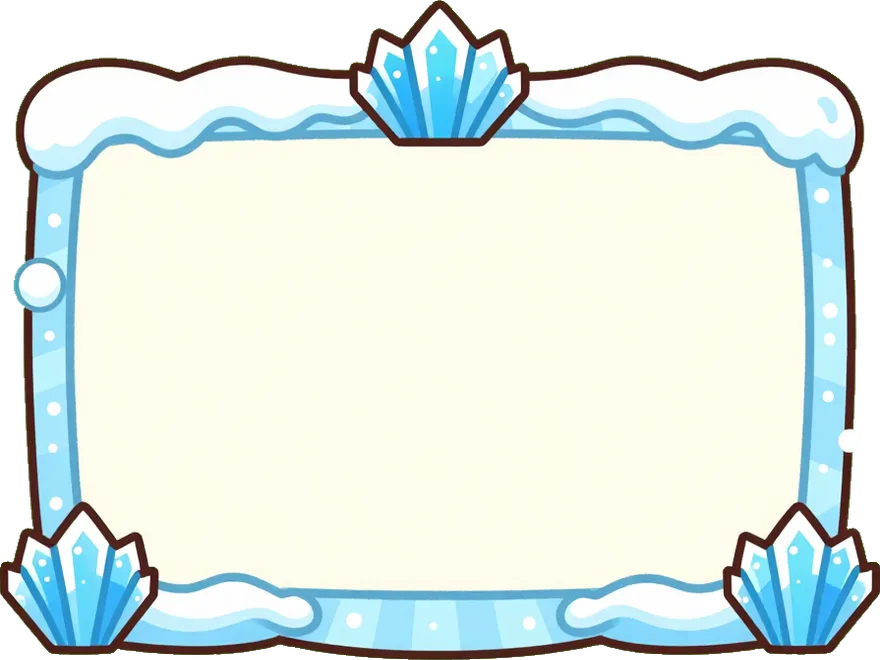
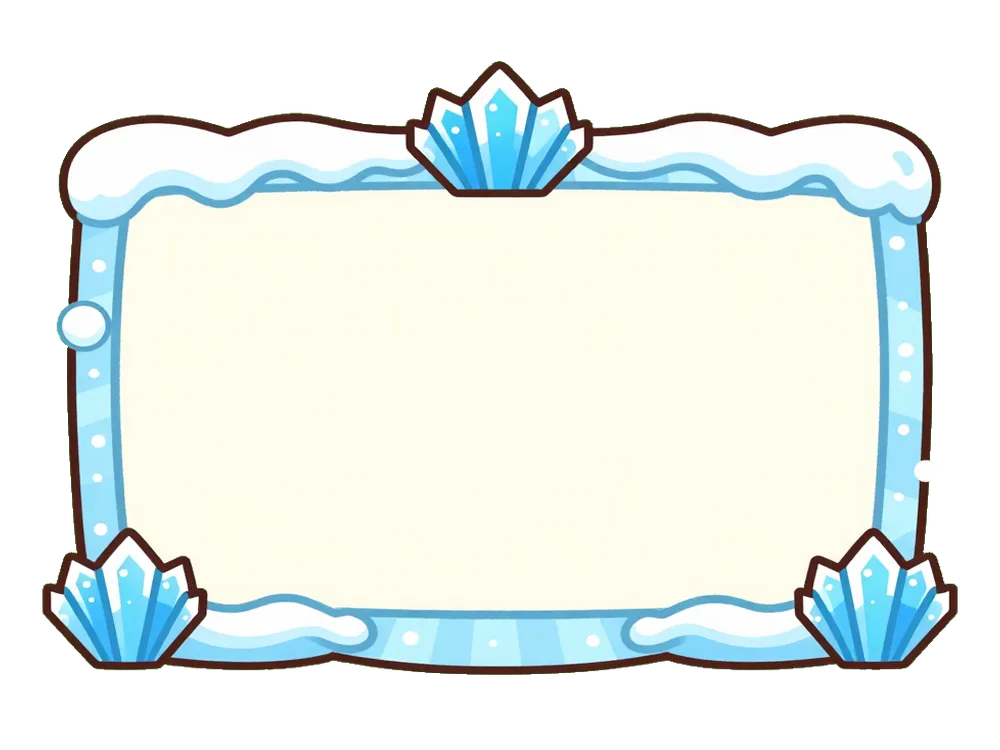
fix(gashapon-art): align prize frames by their cream panel so every rarity has the same body
Claude-Session: https://claude.ai/code/session_01SemYkQLkTmSDDeYUKQcPZG

diff --git a/shared/css/prize-frame.css b/shared/css/prize-frame.css
@@ -1,15 +1,16 @@
 /* 揭曉卡片的外框(2026-10-01 第三版):5 張 ComfyUI 生成的彩色冰雪框,一階比一階華麗。
    卡片固定 4:3、整張圖鋪滿,不用九宮格;名字太長就自動縮字(gashapon/js/fit-text.js)。
    框的顏色不分稀有度(稀有度色在扭蛋殼、標籤、光暈上),只靠裝飾區分等級。
-   圖由 tools/mascot-gen/gashapon.py build-frames 產生;內距是 5 張圖裡最小的面板
-   (build-frames 印出的 max inset:上 23.6%、右 10.8%、下 20.5%、左 10.6%,以高度/寬度計)再留一點邊。
+   圖由 tools/mascot-gen/gashapon.py build-frames 產生:5 張都以中間的奶油色面板對齊,面板固定在
+   1000x750 畫布的 (120,190)–(880,610),外圍裝飾往外凸 —— 換等級時框身跟文字區完全一樣。
    扭蛋機在用;立體扭蛋機之後加上 .prize-frame、data-rarity 就能用(issue #6)。 */
 .prize-frame {
   width: min(88vw, 460px);
   aspect-ratio: 4 / 3;
   max-height: 80dvh;
-  /* padding 的百分比是相對寬度:上 23.6% 高 ≈ 17.7% 寬,下 20.5% 高 ≈ 15.4% 寬 */
-  padding: 19% 13% 16.5%;
+  /* 面板:左右各 12% 寬、上 190/750 高、下 140/750 高;padding 的百分比是相對寬度,
+     所以上 = 190/750×0.75 = 19%、下 = 14%,再各往內留 2% */
+  padding: 21% 14% 16%;
   display: grid;
   grid-template-rows: auto minmax(0, 1fr);
   position: relative;
@@ -23,11 +24,11 @@
   filter: drop-shadow(0 10px 0 rgba(87, 66, 57, .2));
 }
 .prize-frame::before { content: none; }
-.prize-frame[data-rarity="N"]   { background-image: url(../img/frames/frame-N.webp?v=848b51b8); }
-.prize-frame[data-rarity="R"]   { background-image: url(../img/frames/frame-R.webp?v=178d9f9d); }
-.prize-frame[data-rarity="SR"]  { background-image: url(../img/frames/frame-SR.webp?v=80d81f0a); }
-.prize-frame[data-rarity="SSR"] { background-image: url(../img/frames/frame-SSR.webp?v=d5fc34f0); }
-.prize-frame[data-rarity="UR"]  { background-image: url(../img/frames/frame-UR.webp?v=5322a120); }
+.prize-frame[data-rarity="N"]   { background-image: url(../img/frames/frame-N.webp?v=4ce88016); }
+.prize-frame[data-rarity="R"]   { background-image: url(../img/frames/frame-R.webp?v=6bd384be); }
+.prize-frame[data-rarity="SR"]  { background-image: url(../img/frames/frame-SR.webp?v=a28d6069); }
+.prize-frame[data-rarity="SSR"] { background-image: url(../img/frames/frame-SSR.webp?v=610568b4); }
+.prize-frame[data-rarity="UR"]  { background-image: url(../img/frames/frame-UR.webp?v=27431251); }
 
 /* 名字那一格:撐滿中間剩下的空間,fitText 量的就是這一格 */
 .prize-frame .prize-card__name-box {

diff --git a/tools/mascot-gen/gashapon.py b/tools/mascot-gen/gashapon.py
@@ -19,7 +19,7 @@ from PIL import Image
 
 import comfy
 from post import key_border, keep_largest, key_green
-from gashapon_art import anchors_from_pick, cut_disk, content_hash, stamp, clear_green_fringe, to_tint_gray, split_at, split_cells, square_about_seam, crop_margin
+from gashapon_art import anchors_from_pick, cut_disk, content_hash, stamp, clear_green_fringe, to_tint_gray, split_at, split_cells, square_about_seam, crop_margin, panel_bbox, fit_panel
 
 ROOT = Path(__file__).resolve().parents[2]
 HERE = Path(__file__).resolve().parent
@@ -307,10 +307,14 @@ def cmd_frames_i2i(args):
             print(f'i2i {r} s{n} denoise={denoise[r]}', flush=True)
 
 
+# 外框輸出:1000x750(4:3)畫布,面板固定落在這個位置;外圍的冰晶冠、冰晶簇往外凸
+FRAME_CANVAS = (1000, 750)
+FRAME_PANEL = (120, 190, 880, 610)   # x0, y0, x1, y1
+
+
 def cmd_build_frames(args):
-    """彩色整張外框:去背、裁到內容、統一縮成 4:3。另外量中間奶油色面板的位置,
-    印出 5 張裡最保守(面板最小)的內距百分比,給 prize-frame.css 的 padding 用。
-    挑選紀錄可以指定 dir(為了讓遞進清楚,有的等級是用別的等級的候選圖)。"""
+    """彩色整張外框:去背後以中間的奶油色面板對齊(fit_panel),5 個等級的框身與文字區一模一樣,
+    只有外圍裝飾不同。挑選紀錄可以指定 dir(為了讓遞進清楚,有的等級是用別的等級的候選圖)。"""
     picks = load_cfg().get('picks', {})
     missing = [r for r in RARITIES if f'frame-{r}' not in picks]
     if missing:
@@ -318,27 +322,17 @@ def cmd_build_frames(args):
     dest = ROOT / 'shared' / 'img' / 'frames'
     dest.mkdir(parents=True, exist_ok=True)
     css = ROOT / 'shared' / 'css' / 'prize-frame.css'
-    insets = []
     for r in RARITIES:
         p = picks[f'frame-{r}']
-        full, _ = cutout(OUT / p.get('dir', f'frame-{r}') / f's{p["n"]}.png')
-        im = Image.fromarray(full).resize((880, 660), Image.LANCZOS)
-        a = np.asarray(im).astype(int)
-        h, w = a.shape[:2]
-        # 面板:從中心往四個方向走,碰到跟中心顏色差很多的地方就是面板邊
-        c = a[h // 2, w // 2, :3]
-        far = lambda y, x: np.abs(a[y, x, :3] - c).sum() > 60
-        top = next(y for y in range(h // 2, 0, -1) if far(y, w // 2))
-        bottom = next(y for y in range(h // 2, h) if far(y, w // 2))
-        left = next(x for x in range(w // 2, 0, -1) if far(h // 2, x))
-        right = next(x for x in range(w // 2, w) if far(h // 2, x))
-        insets.append((top / h, (w - right) / w, (h - bottom) / h, left / w))
+        rgb = np.asarray(Image.open(OUT / p.get('dir', f'frame-{r}') / f's{p["n"]}.png').convert('RGB'))
+        rgba = keep_largest(clear_green_fringe(key_border(rgb)))
+        box = panel_bbox(rgba)
+        im = Image.fromarray(fit_panel(rgba, box, FRAME_CANVAS, FRAME_PANEL))
         path = dest / f'frame-{r}.webp'
         webp(im, path)
         if css.exists():
             restamp(css, f'../img/frames/frame-{r}.webp', path)
-        print(r, 'panel inset top/right/bottom/left = ' + ' '.join(f'{v:.3f}' for v in insets[-1]))
-    print('max inset', ' '.join(f'{max(i[k] for i in insets):.3f}' for k in range(4)))
+        print(r, 'panel', box)
 
 
 def review_frames():

diff --git a/tools/mascot-gen/gashapon_art.py b/tools/mascot-gen/gashapon_art.py
@@ -96,3 +96,37 @@ def crop_margin(img, frac):
     h, w = img.shape[:2]
     my, mx = round(h * frac), round(w * frac)
     return img[my:h - my, mx:w - mx]
+
+
+def panel_bbox(rgba, tol=40.0):
+    """外框中間那塊奶油色面板的範圍 (x0, y0, x1, y1):從正中央往外填色,跟中心顏色相差 tol 以內的
+    連通區域取外接矩形。裝飾凸進面板一點(UR 下緣的寶石)不影響,因為面板其他地方還是連得到邊。"""
+    f = rgba[..., :3].astype(np.float32)
+    h, w = f.shape[:2]
+    near = np.sqrt(((f - f[h // 2, w // 2]) ** 2).sum(-1)) <= tol
+    region = np.zeros((h, w), bool)
+    region[h // 2, w // 2] = True
+    while True:
+        grown = region.copy()
+        grown[1:] |= region[:-1]; grown[:-1] |= region[1:]; grown[:, 1:] |= region[:, :-1]; grown[:, :-1] |= region[:, 1:]
+        grown &= near
+        if (grown == region).all():
+            break
+        region = grown
+    ys, xs = np.nonzero(region)
+    return int(xs.min()), int(ys.min()), int(xs.max()) + 1, int(ys.max()) + 1
+
+
+def fit_panel(rgba, box, canvas, target):
+    """把外框縮放、平移到面板剛好落在 target 的位置,放在 canvas (w, h) 大小的透明畫布上。
+    5 個等級的框外圍裝飾大小不同(UR 有冰晶冠),以面板對齊,框身與文字區才會一模一樣。"""
+    from PIL import Image
+    bx0, by0, bx1, by1 = box
+    tx0, ty0, tx1, ty1 = target
+    sx = (tx1 - tx0) / (bx1 - bx0)
+    sy = (ty1 - ty0) / (by1 - by0)
+    h, w = rgba.shape[:2]
+    scaled = Image.fromarray(rgba).resize((max(1, round(w * sx)), max(1, round(h * sy))), Image.LANCZOS)
+    out = Image.new('RGBA', canvas, (0, 0, 0, 0))
+    out.paste(scaled, (round(tx0 - bx0 * sx), round(ty0 - by0 * sy)))
+    return np.asarray(out)

diff --git a/tools/mascot-gen/test_gashapon_art.py b/tools/mascot-gen/test_gashapon_art.py
@@ -130,3 +130,33 @@ from gashapon_art import crop_margin
 class CropMargin(unittest.TestCase):
     def test_crops_each_side(self):
         self.assertEqual(crop_margin(np.zeros((100, 50, 3), np.uint8), 0.1).shape[:2], (80, 40))
+
+
+from gashapon_art import panel_bbox, fit_panel
+
+
+class Panel(unittest.TestCase):
+    def frame(self, w, h, box):
+        a = np.zeros((h, w, 4), np.uint8)
+        a[...] = (150, 200, 240, 255)                      # 冰藍框
+        x0, y0, x1, y1 = box
+        a[y0:y1, x0:x1] = (255, 250, 235, 255)             # 奶油色面板
+        return a
+
+    def test_panel_bbox_finds_cream_panel(self):
+        self.assertEqual(panel_bbox(self.frame(100, 80, (20, 30, 80, 70))), (20, 30, 80, 70))
+
+    def test_panel_bbox_ignores_ornament_poking_in(self):
+        a = self.frame(100, 80, (20, 30, 80, 70))
+        a[68:70, 45:55] = (150, 200, 240, 255)             # 下緣寶石凸進面板一點
+        self.assertEqual(panel_bbox(a), (20, 30, 80, 70))
+
+    def test_fit_panel_puts_every_panel_in_the_same_place(self):
+        target = (100, 150, 700, 500)
+        for box in [(20, 30, 80, 70), (10, 40, 90, 60)]:
+            out = fit_panel(self.frame(100, 80, box), box, (800, 600), target)
+            self.assertEqual(out.shape[:2], (600, 800))
+            # 縮放用 Lanczos,邊緣附近會有幾個色階的振鈴,所以比較時留 8 的容差
+            close = lambda px, rgb: all(abs(int(a) - b) <= 8 for a, b in zip(px[:3], rgb))
+            self.assertTrue(close(out[325, 400], (255, 250, 235)), out[325, 400])   # 面板中心
+            self.assertTrue(close(out[325, 80], (150, 200, 240)), out[325, 80])     # 面板左邊外面是框
